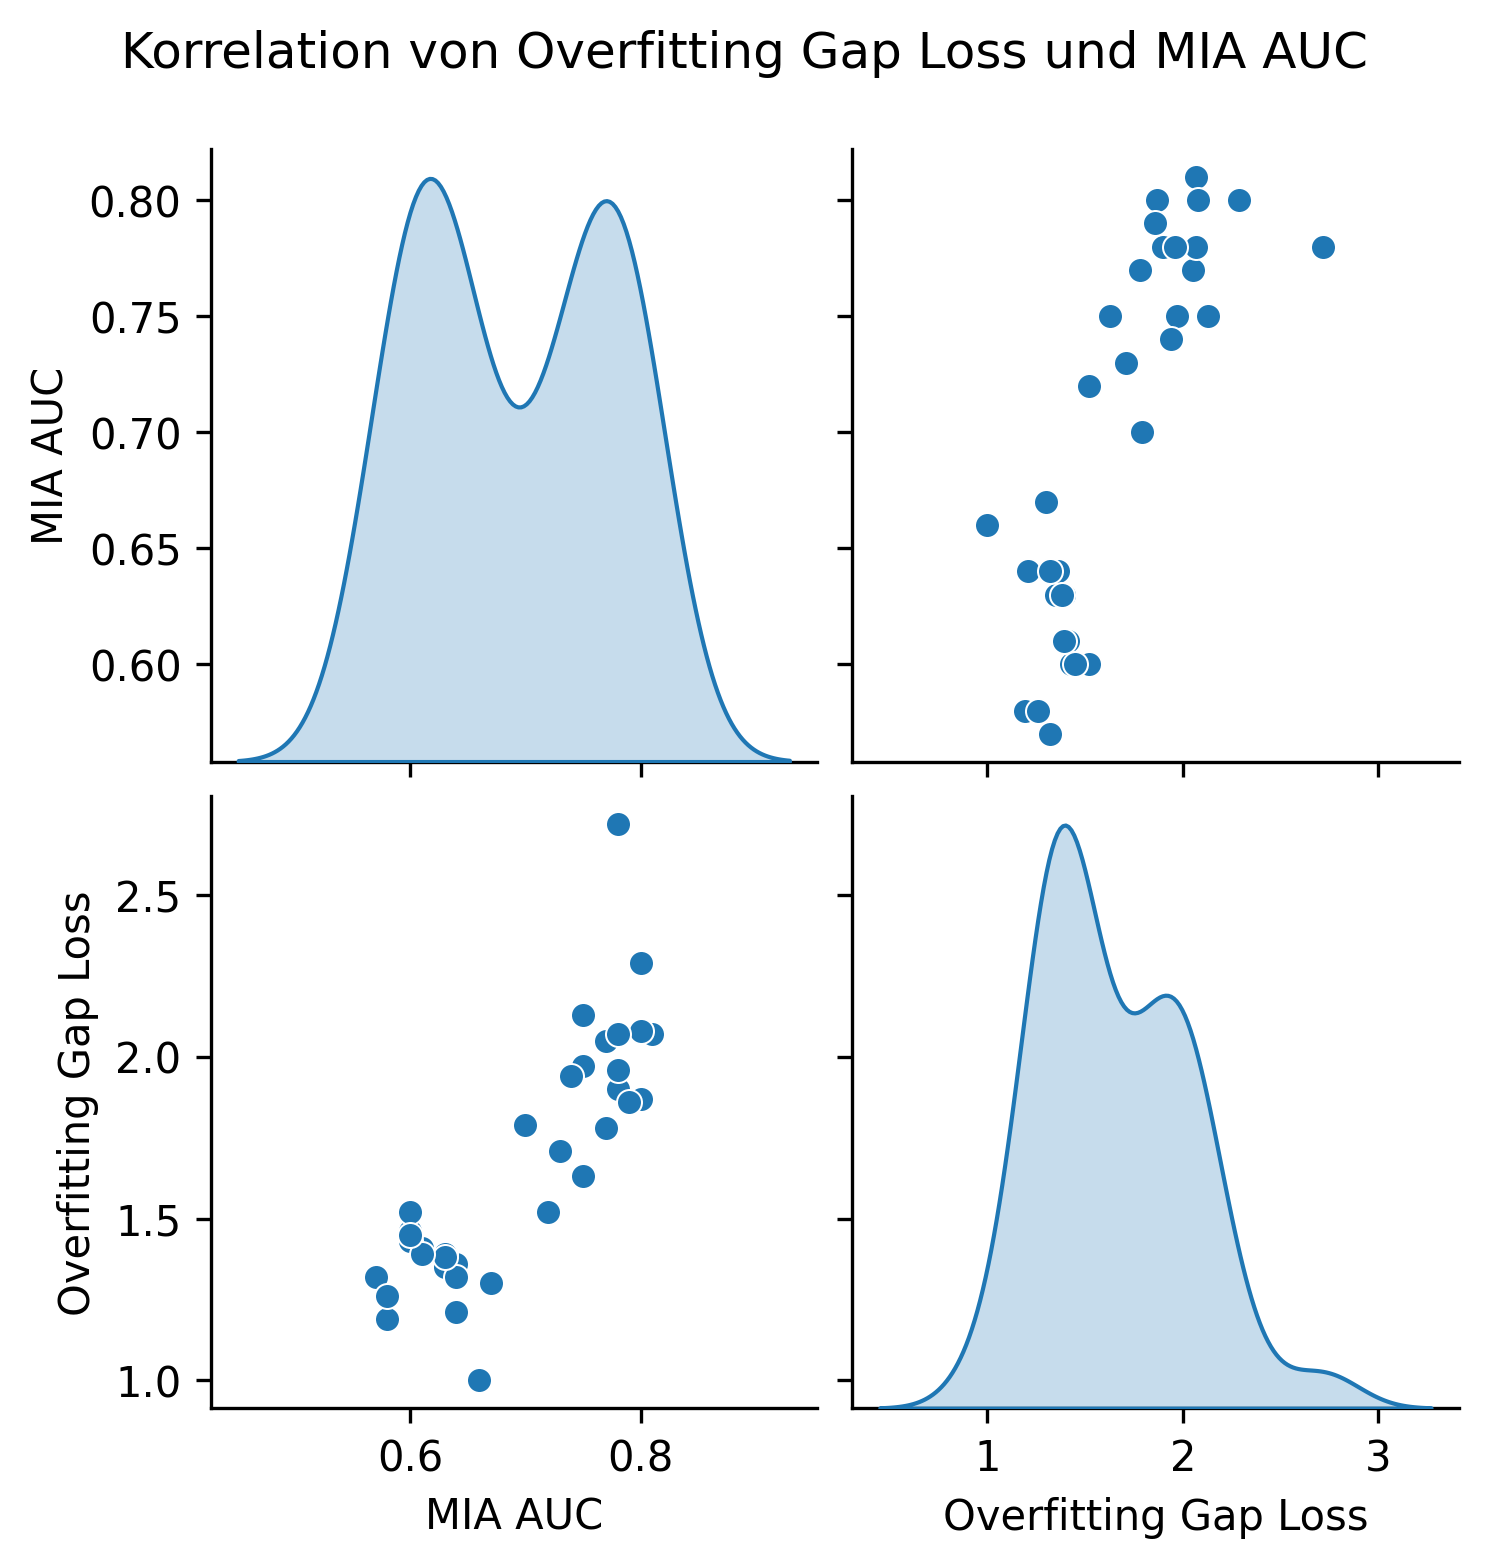
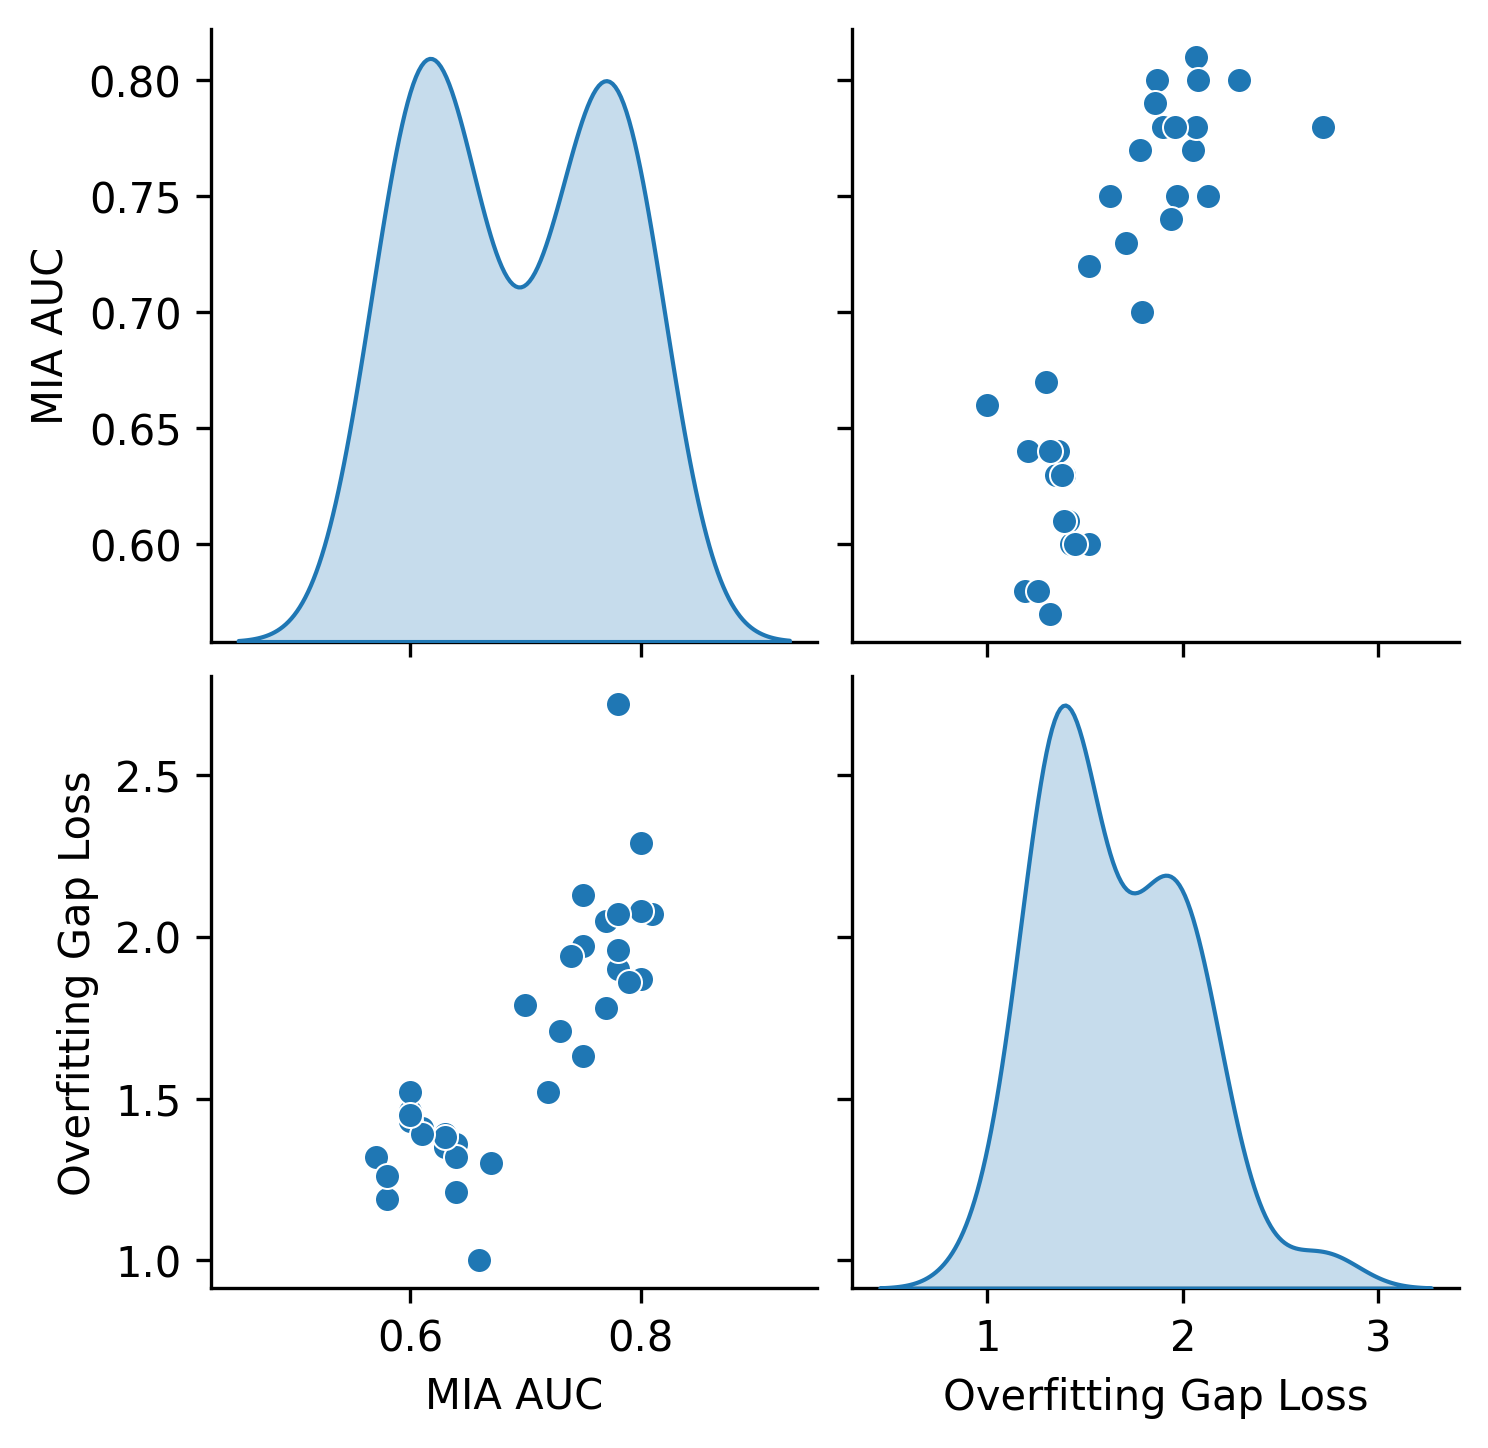
remove title from diagrams

diff --git a/experiments_data_analysis/create_figures/main_experiments/seaborn_figures.py b/experiments_data_analysis/create_figures/main_experiments/seaborn_figures.py
@@ -16,7 +16,6 @@ def create_analysis_figures(
     # --- 1 Effect of Local Epochs ---
     plt.figure(figsize=(6, 4))
     sns.boxplot(data=merged, x=Col.LOCAL_EPOCHS, y=Col.METRICS_AUC)
-    plt.title("Einfluss der lokaler Epochen auf die MIA AUC")
     plt.xlabel("Lokale Epochen")
     plt.ylabel("MIA AUC")
     plt.tight_layout()
@@ -26,7 +25,6 @@ def create_analysis_figures(
     # --- 2 Architecture Influence ---
     plt.figure(figsize=(6, 4))
     sns.boxplot(data=merged, x=Col.MODEL, y=Col.METRICS_AUC)
-    plt.title("Architektonischer Einfluss auf die MIA AUC")
     plt.xlabel("Modellarchitektur")
     plt.ylabel("MIA AUC")
     plt.tight_layout()
@@ -36,7 +34,6 @@ def create_analysis_figures(
     # --- 3 Data Distribution Influence ---
     plt.figure(figsize=(6, 4))
     sns.boxplot(data=merged, x=Col.DATA_DISTRIBUTION, y=Col.METRICS_AUC, order=["IID", "semi-non-IID", "non-IID"])
-    plt.title("Einfluss der Datenverteilung auf die MIA AUC")
     plt.xlabel("Datenverteilung")
     plt.ylabel("MIA AUC")
     plt.tight_layout()
@@ -61,7 +58,6 @@ def create_analysis_figures(
     merged[Col.REGULARIZATION] = merged[Col.REGULARIZATION].apply(map_regularization_diagram)
     plt.figure(figsize=(6, 4))
     sns.boxplot(data=merged, x=Col.REGULARIZATION, y=Col.METRICS_AUC)
-    plt.title("Einfluss von Regularisierung auf die MIA AUC")
     plt.xlabel("Regularisierung")
     plt.ylabel("MIA AUC")
     plt.tight_layout()
@@ -90,6 +86,5 @@ def create_analysis_figures(
     for ax, model_name in zip(g.axes.flat, g.col_names):
         nice_title = new_titles.get(model_name, model_name)
         ax.set_title(nice_title)
-    g.figure.suptitle("Einfluss der Regularisierung getrennt nach Modellarchitektur", y=1.05)
     plt.savefig(figures_dir / "regularization_per_model.png", dpi=300)
     plt.close()

diff --git a/experiments_data_analysis/create_figures/main_experiments/seaborn_figures_corr.py b/experiments_data_analysis/create_figures/main_experiments/seaborn_figures_corr.py
@@ -45,7 +45,6 @@ def create_analysis_figures_corr(
         "Overfitting Gap Loss (Clients)",
         "Overfitting Gap Acc. (Clients)"
     ], rotation=0)
-    plt.title("Korrelation von Overfitting Gaps und MIA AUC", pad=20)
     plt.tight_layout()
     plt.savefig(figures_dir / "correlation_overfitting_auc.png", dpi=300)
     plt.close()
@@ -66,7 +65,6 @@ def create_analysis_figures_corr(
     axes[1, 0].set_ylabel("Overfitting Gap Loss")
     axes[1, 1].set_xlabel("Overfitting Gap Loss")
 
-    g.figure.suptitle("Korrelation von Overfitting Gap Loss und MIA AUC", y=1.03)
     g.figure.subplots_adjust(top=0.95)  # increase or decrease top margin
     g.savefig(figures_dir / "pairplot_overfitting_auc.png", dpi=300)
     plt.close()
@@ -86,7 +84,6 @@ def create_analysis_figures_corr(
     axes[1, 0].set_xlabel("MIA AUC")
     axes[1, 0].set_ylabel("Overfitting Gap Acc.")
     axes[1, 1].set_xlabel("Overfitting Gap Acc.")
-    g.figure.suptitle("Korrelation von Overfitting Gap Accuracy und MIA AUC", y=1.03)
     g.figure.subplots_adjust(top=0.95)  # increase or decrease top margin
     g.savefig(figures_dir / "pairplot_overfitting_auc_acc.png", dpi=300)
     plt.close()

diff --git a/experiments_data_analysis/run_main_data_analysis.py b/experiments_data_analysis/run_main_data_analysis.py
@@ -1,13 +1,14 @@
+import os
+
 from experiments_data_analysis.create_dataset.merge_flower_mia_data import merge_flower_mia_wandb_runs_to_csv
 from experiments_data_analysis.create_dataset.wandb_get_flower_data import export_flower_wandb_runs_to_csv
 from experiments_data_analysis.create_dataset.wandb_get_mia_data import export_mia_wandb_runs_to_csv
 from experiments_data_analysis.create_figures.main_experiments.create_overview_tables import create_overview_table
 from experiments_data_analysis.create_figures.main_experiments.seaborn_figures import create_analysis_figures
 from experiments_data_analysis.create_figures.main_experiments.seaborn_figures_corr import create_analysis_figures_corr
+from experiments_data_analysis.file_name_settings import WANDB_ENTITY, WANDB_PROJECT_MIA_MAIN
 from experiments_data_analysis.file_name_settings import WANDB_PROJECT_FLOWER_MAIN, DATA_SUBDIR_MAIN, FIGURES_DIR, \
     FLOWER_DATA_PATH, MIA_DATA_PATH, MERGED_DATA_FILE_PATH, FIGURES_DIR_MAIN
-from experiments_data_analysis.file_name_settings import WANDB_ENTITY, WANDB_PROJECT_MIA_MAIN
-import os
 
 # Ensure figures directory exists
 os.makedirs(DATA_SUBDIR_MAIN, exist_ok=True)

diff --git a/experiments_data_analysis/create_figures/side_experiments_shadow_models/create_shadow_model_number_figures.py b/experiments_data_analysis/create_figures/side_experiments_shadow_models/create_shadow_model_number_figures.py
@@ -39,7 +39,6 @@ def create_shadow_model_number_figures(data_path: Path, figures_dir: Path):
 
     plt.xlabel("Anzahl der Shadow Models")
     plt.ylabel("MIA AUC")
-    plt.title("Einfluss der Anzahl von Shadow Models auf die MIA AUC", pad=20)
     plt.xticks([1, 3, 10, 20])
 
     legend_labels = {

diff --git a/experiments_data_analysis/create_figures/side_experiments_clients/create_client_num_figures.py b/experiments_data_analysis/create_figures/side_experiments_clients/create_client_num_figures.py
@@ -25,8 +25,7 @@ def create_client_num_figures(
 
     plt.xlabel("Anzahl der Clients")
     plt.ylabel("MIA AUC")
-    plt.title("MIA AUC bei variierender Client-Anzahl")
-    plt.legend(title="Model")
+    plt.legend(title="Modell")
     plt.grid(True)
     plt.tight_layout()
 
